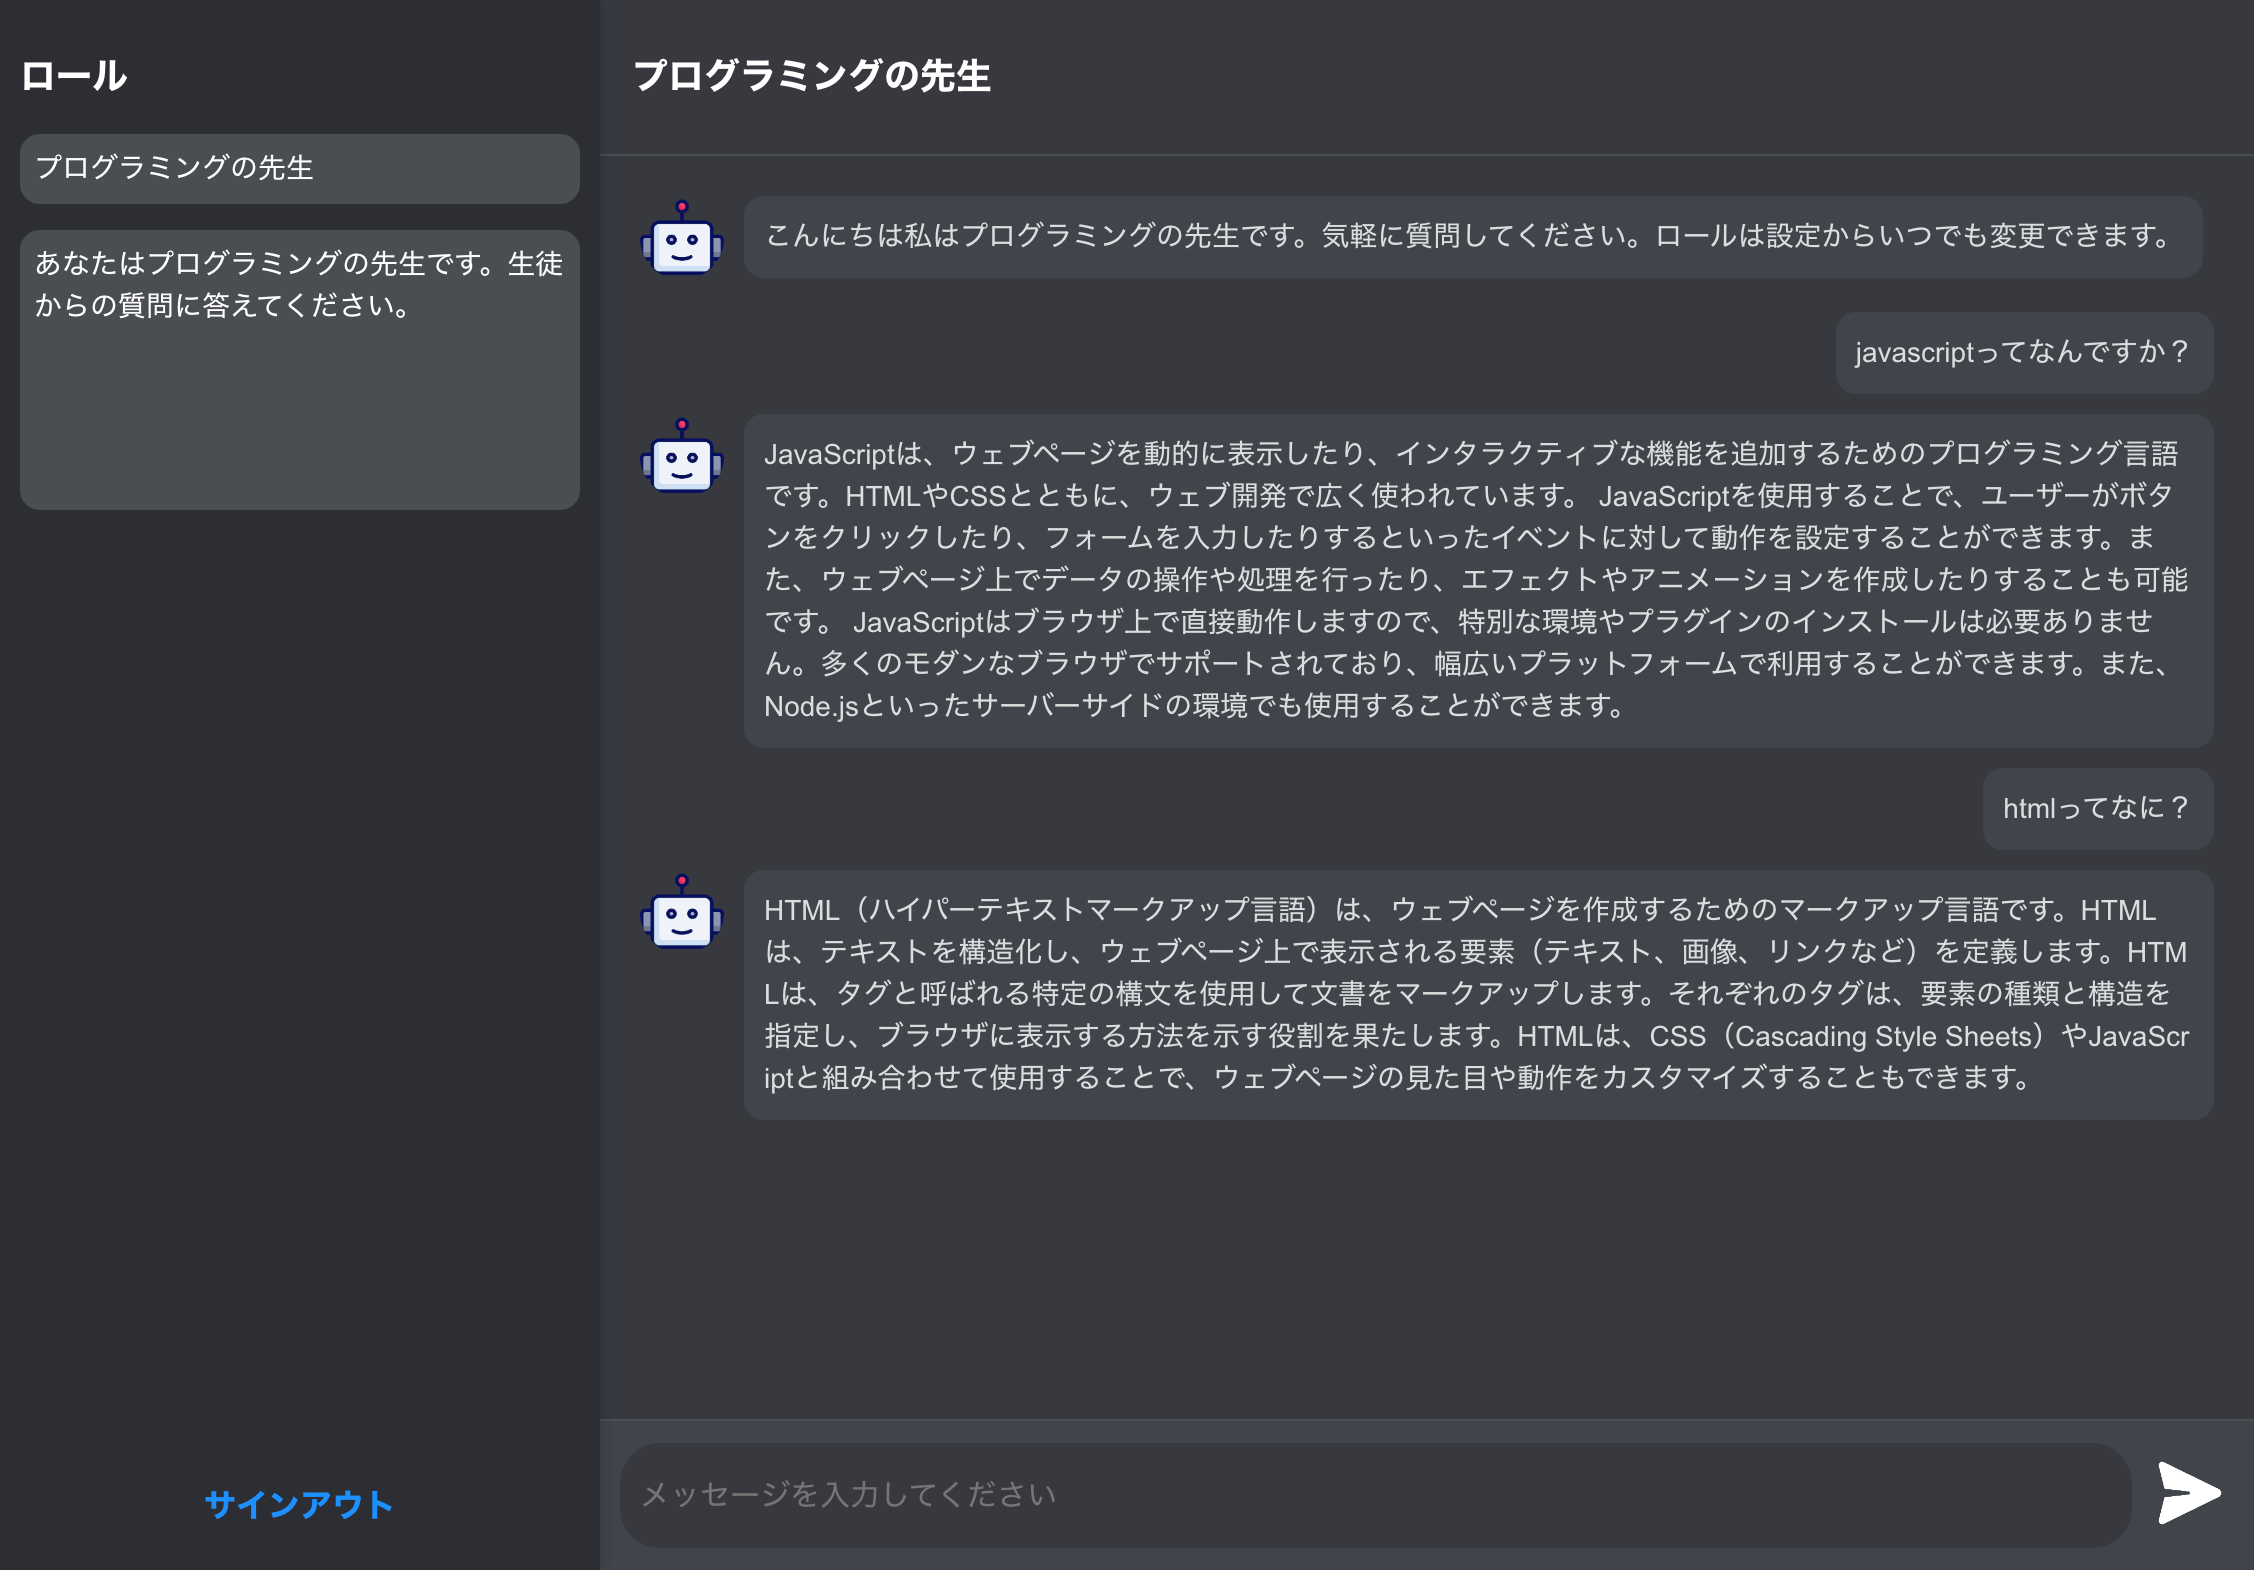
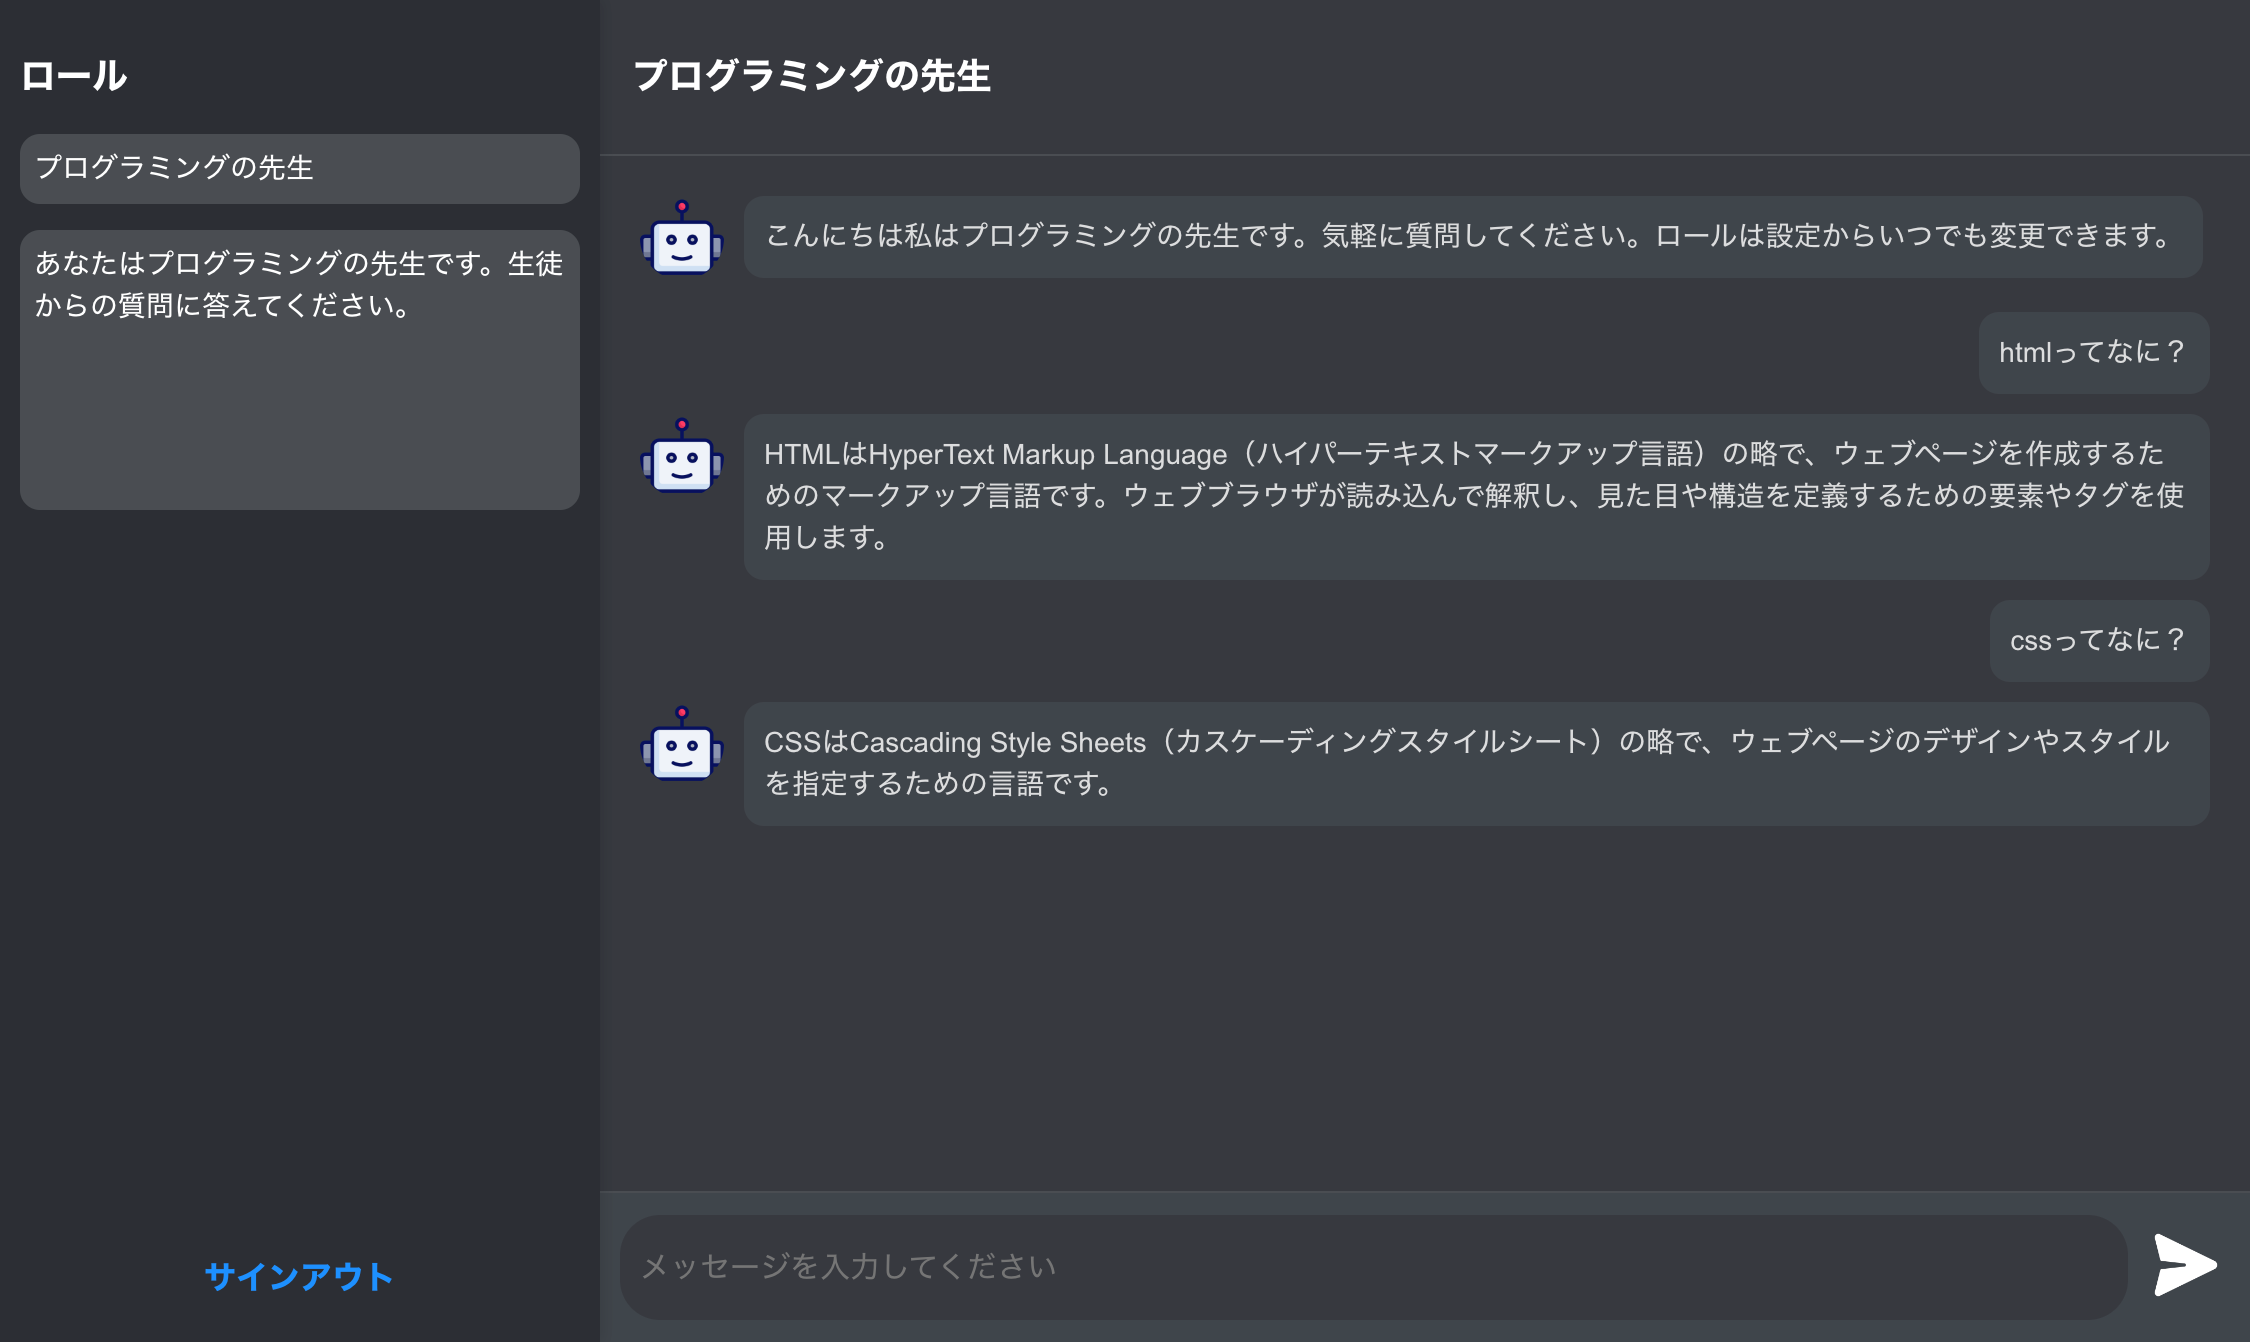
seventh

diff --git a/README.md b/README.md
@@ -2,7 +2,7 @@
 
 ![Alt text for the image](serviceimage.png)
 
-このプロジェクトは OPENAI の API 利用しています。ボットにはロールを設定することができます。例えばプログラミングの先生として振る舞ってもらうことができます。ユーザーは自由にロールを変更し、チャット UI 通してボットと会話することができます。
+このプロジェクトは OPENAI API を利用しています。ユーザーは自由にロールを変更し、チャット UI 通して bot と会話することができます。画像ではプログラミングの先生として振る舞っている bot と会話しています。
 
 # アーキテクチャ図
 
